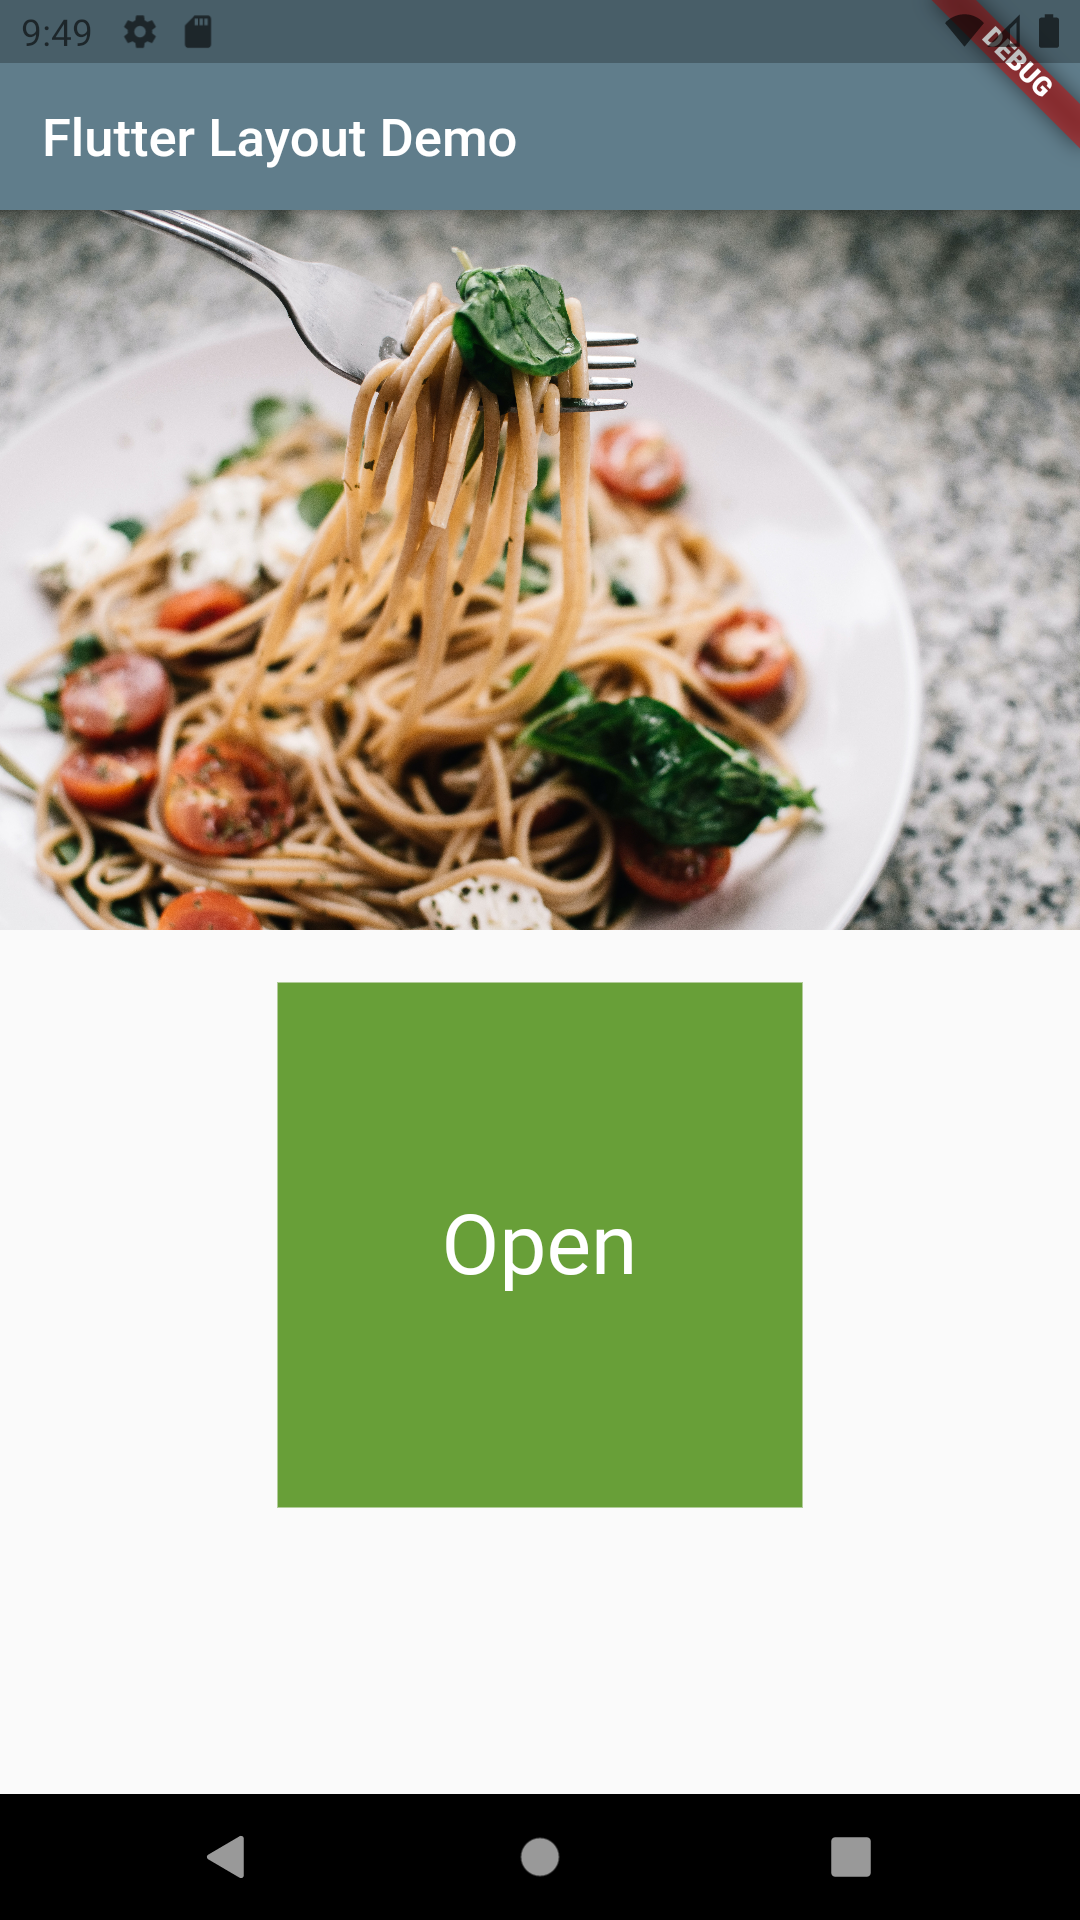
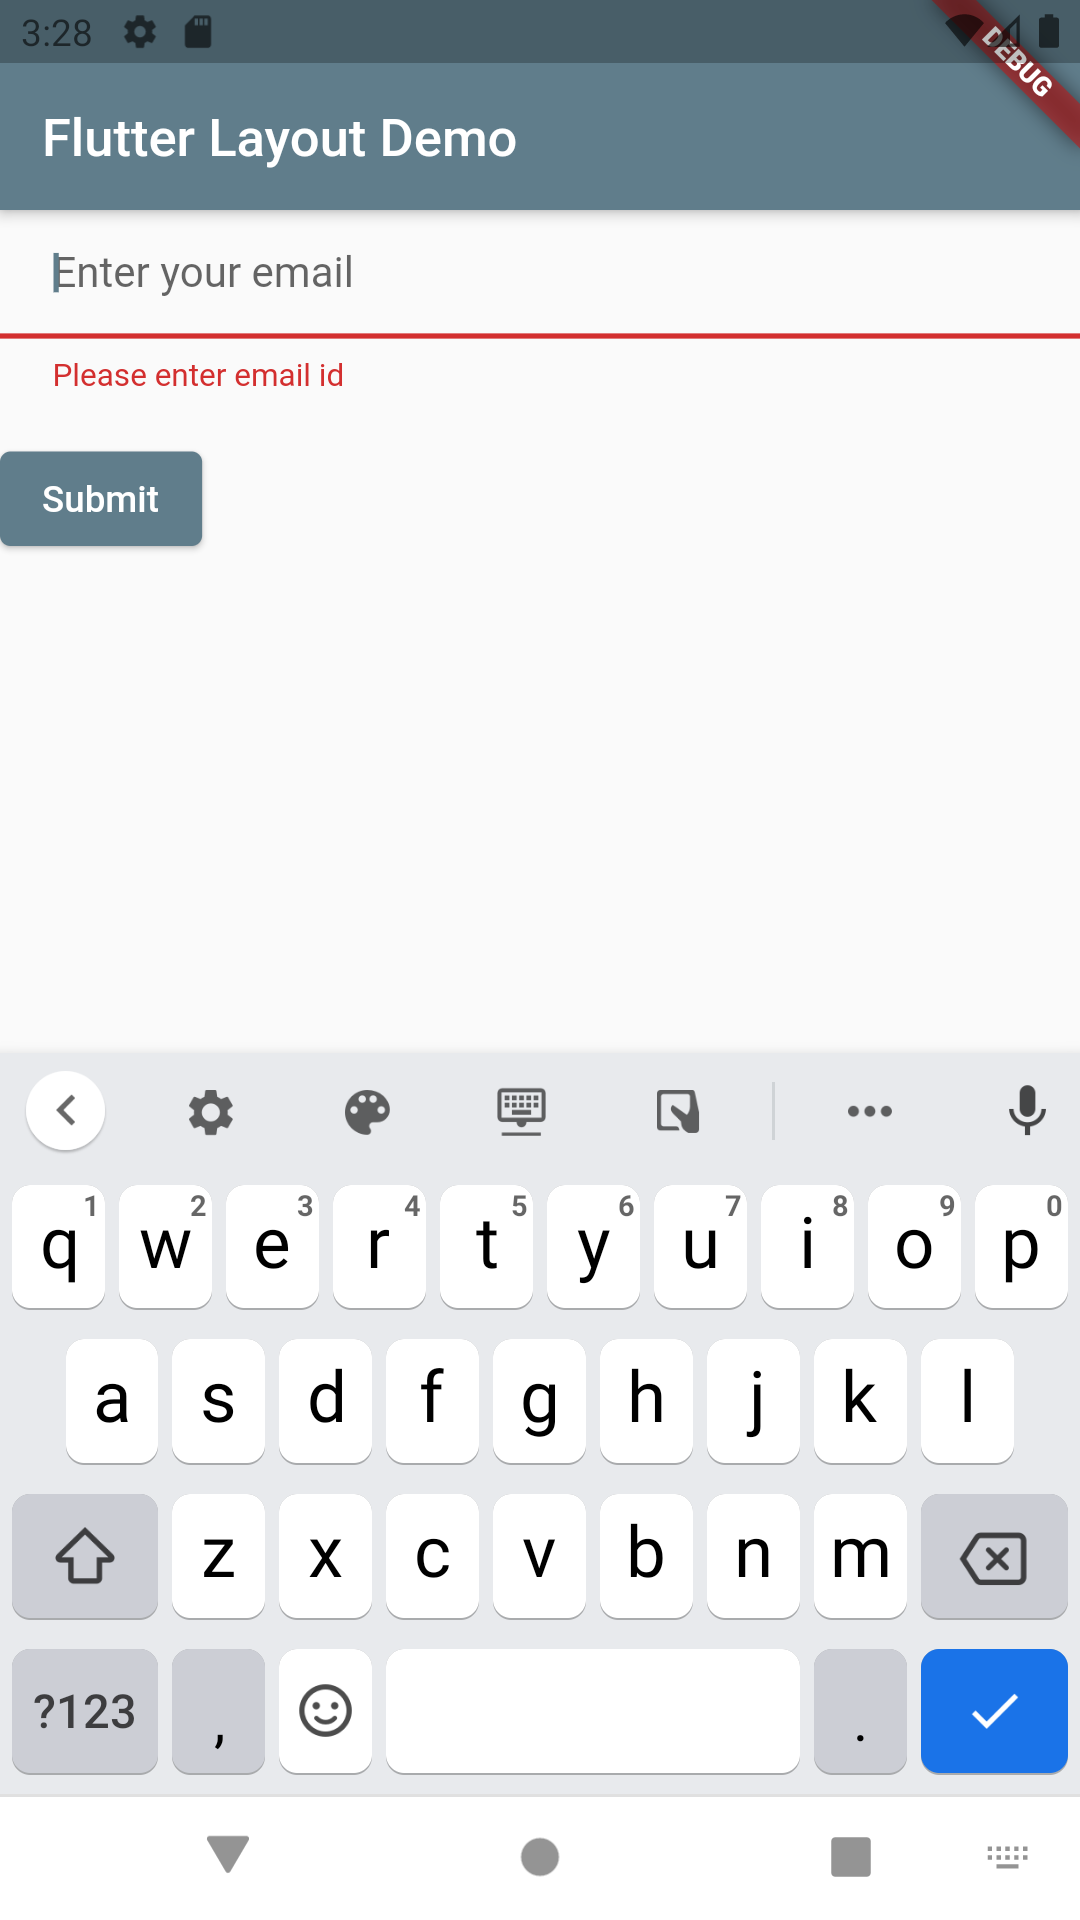
Form | Email | Validate

diff --git a/lib/main.dart b/lib/main.dart
@@ -1,3 +1,4 @@
+import 'package:flutter/cupertino.dart';
 import 'package:flutter/material.dart';
 import 'dart:developer';
 void main() {
@@ -6,6 +7,8 @@ void main() {
 
 class MyApp extends StatelessWidget {
   // This widget is the root of your application.
+  const MyApp({Key? key}):super(key: key);
+
   @override
   Widget build(BuildContext context) {
     log('MyApp build');
@@ -20,119 +23,73 @@ class MyApp extends StatelessWidget {
           appBar: AppBar(
             title: Text('Flutter Layout Demo '),
           ),
-          body: ListView(
-            children: [
-              Image.asset(
-                'images/mainimage.jpg',
-                fit: BoxFit.cover,
-              ),
-              _ParentWidget()
-            ],
+          body:  const _CheckEmailWidget(
+
           ),
         ));
   }
 }
 
-class _ParentWidget extends StatefulWidget {
+class _CheckEmailWidget extends StatefulWidget {
+
+  const _CheckEmailWidget({Key? key}):super(key: key);
+
   @override
-  _ParentWidgetState createState() {
+  _CheckEmailWidgetState createState() {
     // TODO: implement createState
-    return _ParentWidgetState();
+    return _CheckEmailWidgetState();
   }
 }
 
-class _ParentWidgetState extends State<_ParentWidget> {
-  bool _active = false;
-  int _favoriteCount = 42;
+class _CheckEmailWidgetState extends State<_CheckEmailWidget> {
 
-  void _handleTapboxChanged(bool newValue) => {
-        setState(() {
-          _active = newValue;
-        })
-      };
+  final GlobalKey<FormState> _formKey=GlobalKey<FormState>();
 
   @override
   Widget build(BuildContext context) {
     // TODO: implement build
     log('_ParentWidgetState build');
-    return Center(
-      child: Container(
-        padding: EdgeInsets.all(20),
-        child: ChildWidget(
-          _active,
-          _handleTapboxChanged,
-        ),
-        // child: ChildWidget(this.context, _active, _handleTapboxChanged(_active)),
+    return Form(
+      key: _formKey,
+      child: Column(
+        crossAxisAlignment: CrossAxisAlignment.start,
+        children: <Widget>[
+          TextFormField(
+            decoration: const InputDecoration(
+              hintText: 'Enter your email',
+              contentPadding: EdgeInsets.fromLTRB(20,0,0,0)
+            ),
+
+            validator: (String? value){
+              RegExp reg=RegExp(r"^[a-zA-Z0-9.a-zA-Z0-9.!#$%&'*+-/=?^_`{|}~]+@[a-zA-Z0-9]+\.[a-zA-Z]+");
+              if(value==null || value.isEmpty){
+                return 'Please enter email id';
+              }else if(!reg.hasMatch(value)){
+                return 'Please enter a valid email id';
+              }
+              return null;
+            },
+
+          ),
+          Padding(
+            padding: const EdgeInsets.symmetric(vertical: 16.0),
+            child: ElevatedButton(
+              onPressed: () {
+                if(_formKey.currentState!.validate()){
+                  //Process
+                }
+
+                  },
+            child: const Text('Submit'),
+              
+            ),
+          ),
+
+        ],
       ),
+
 
     );
   }
 }
 
-class ChildWidget extends StatefulWidget {
-  bool active;
-  final ValueChanged<bool> onChanged;
-
-  ChildWidget(this.active, this.onChanged);
-
-
-
-
-
-
-
-  @override
-  State<StatefulWidget> createState() {
-    // TODO: implement createState
-    return ChildState();
-  }
-}
-
-class ChildState extends State<ChildWidget> {
-  bool highlight=false;
-
-  @override
-  Widget build(BuildContext context) {
-    // TODO: implement build
-    log('ChildWidget build');
-    return GestureDetector(
-      child: Container(
-        child: Center(
-          child: Text(widget.active ? 'Open' : 'Closed',
-              style: TextStyle(fontSize: 32.0, color: Colors.white)),
-        ),
-        width: 200.0,
-        height: 200.0,
-        decoration: BoxDecoration(
-          color: widget.active ? Colors.lightGreen[700] : Colors.grey[600],
-          border: highlight
-              ? Border.all(
-            color: Colors.teal[700],
-            width: 10.0,
-          )
-              : null,
-        ),
-      ),
-      onTap: _handleTap,
-      onTapDown: _handleTapDown,
-      onTapUp: _handleTapUp,
-    );
-  }
-
-  void _handleTap() {
-    widget.onChanged(!widget.active);
-  }
-
-
-  void _handleTapDown(TapDownDetails details) {
-    setState(() {
-      highlight=true;
-    });
-  }
-
-  void _handleTapUp(TapUpDetails details) {
-    setState(() {
-      highlight=false;
-    });
-  }
-}

diff --git a/README.md b/README.md
@@ -2,20 +2,18 @@
 
 A new Flutter application.
 
-## Demo 6
+## Demo 7
 
 The objective of this demo is to:
-- Parent Widget manges child widget state
-- Mix Match Approch: Stateful widget manges some of the states, and parent widget manges other aspects of the state
+- Create a form
+- View consist of an email field and a submit button.
+- Validate the form on click of submit button.
+- Show error if form is invalid.
 
-The TapBox state manage:
-* On tap the color changes to Green or Grey. State is maintained by parent
-* Once tap is down a border is shown, on up it disappears. State is maintained by widget itself i.e child
 
 #### App design ####
-![picture alt](https://raw.githubusercontent.com/HimanshuSharma13/Flutter/feature_d6_state_mgmt/screens/home1.png "App design screens")
-![picture alt](https://raw.githubusercontent.com/HimanshuSharma13/Flutter/feature_d6_state_mgmt/screens/home2.png "App design screens")
-![picture alt](https://raw.githubusercontent.com/HimanshuSharma13/Flutter/feature_d6_state_mgmt/screens/home3.png "App design screens")
+![picture alt](https://raw.githubusercontent.com/HimanshuSharma13/Flutter/feature_d7_form/screens/home1.png "App design screens")
+![picture alt](https://raw.githubusercontent.com/HimanshuSharma13/Flutter/feature_d7_form/screens/home2.png "App design screens")
 
 
 A few resources to get you started if this is your first Flutter project:
